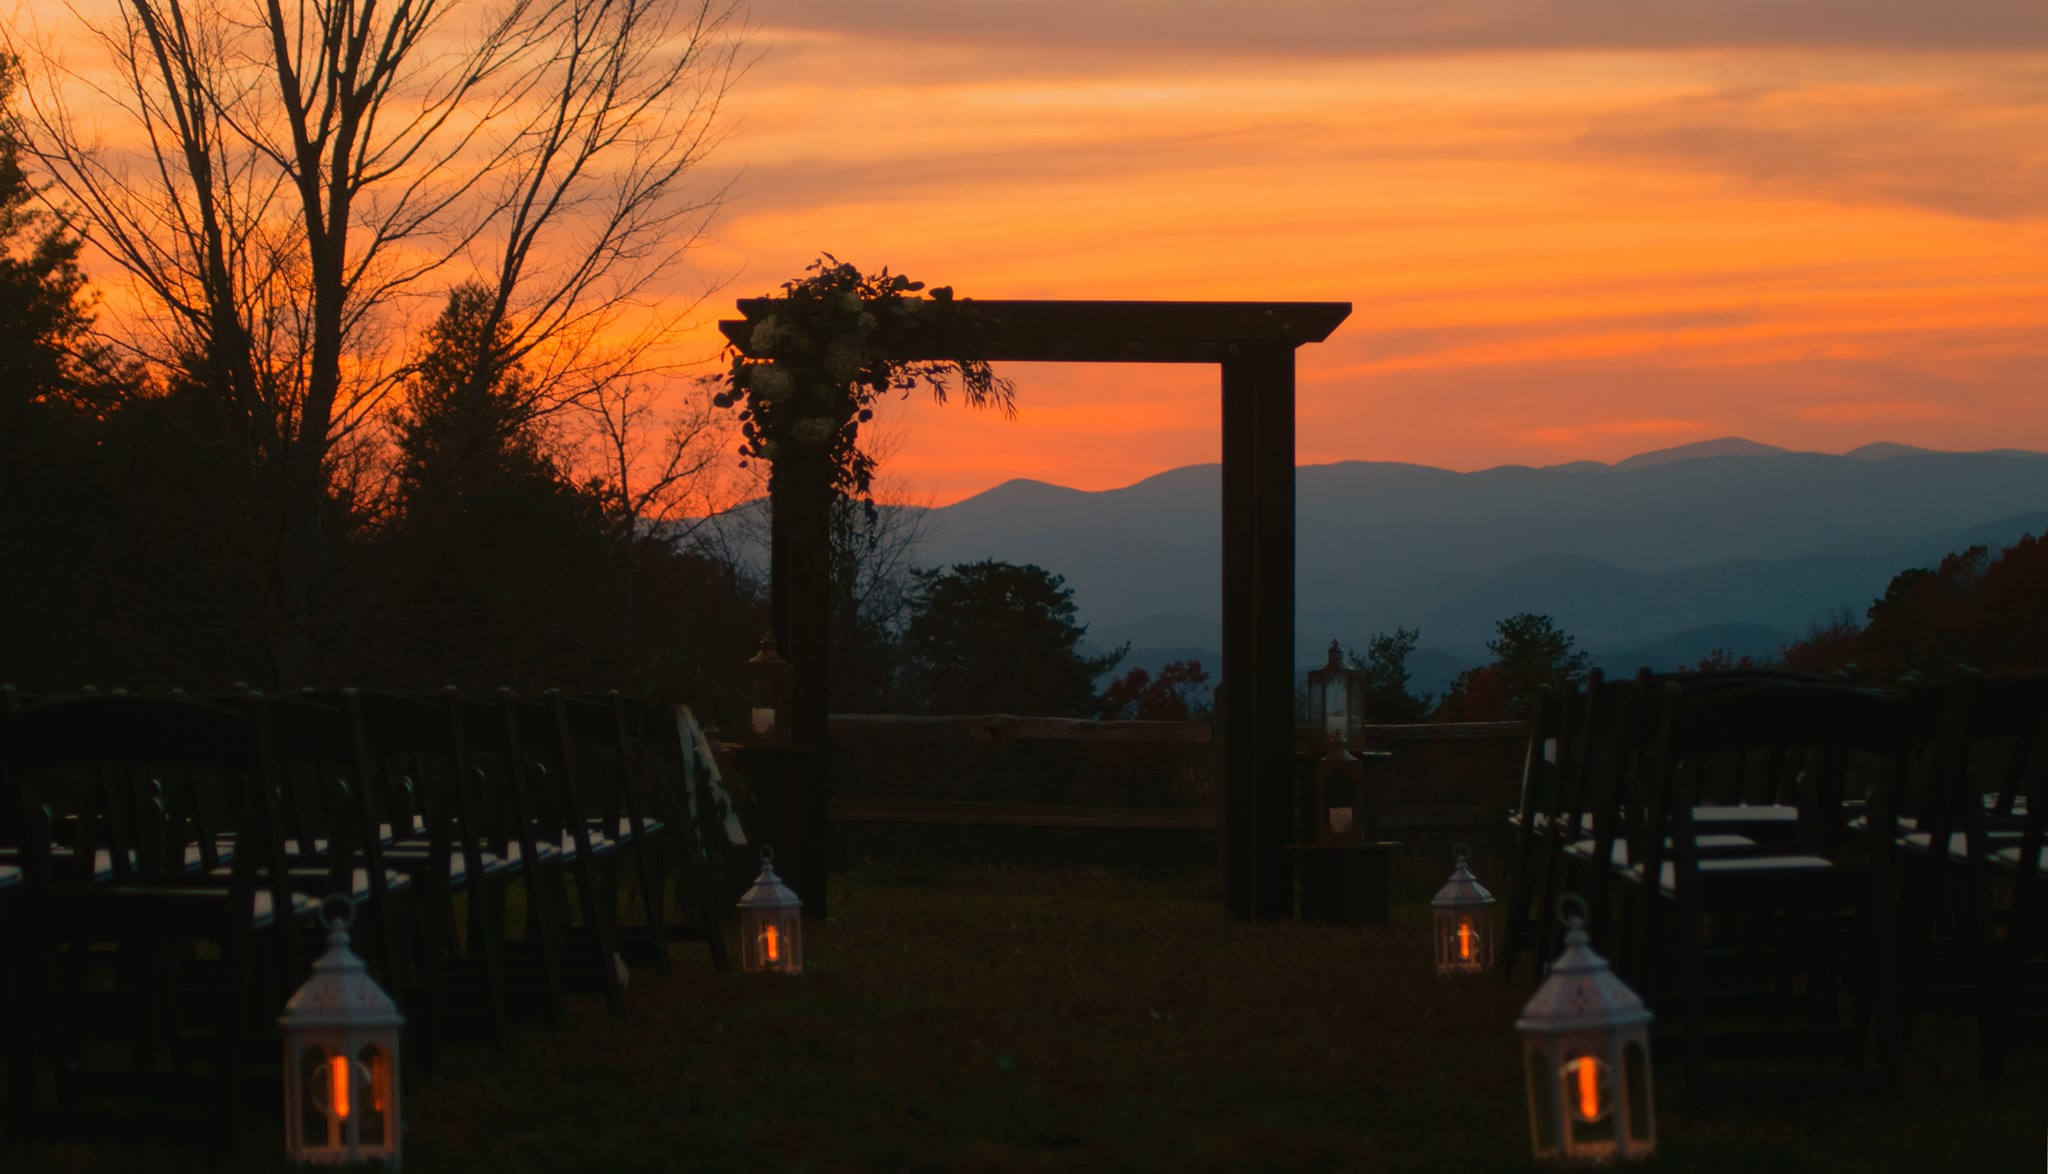
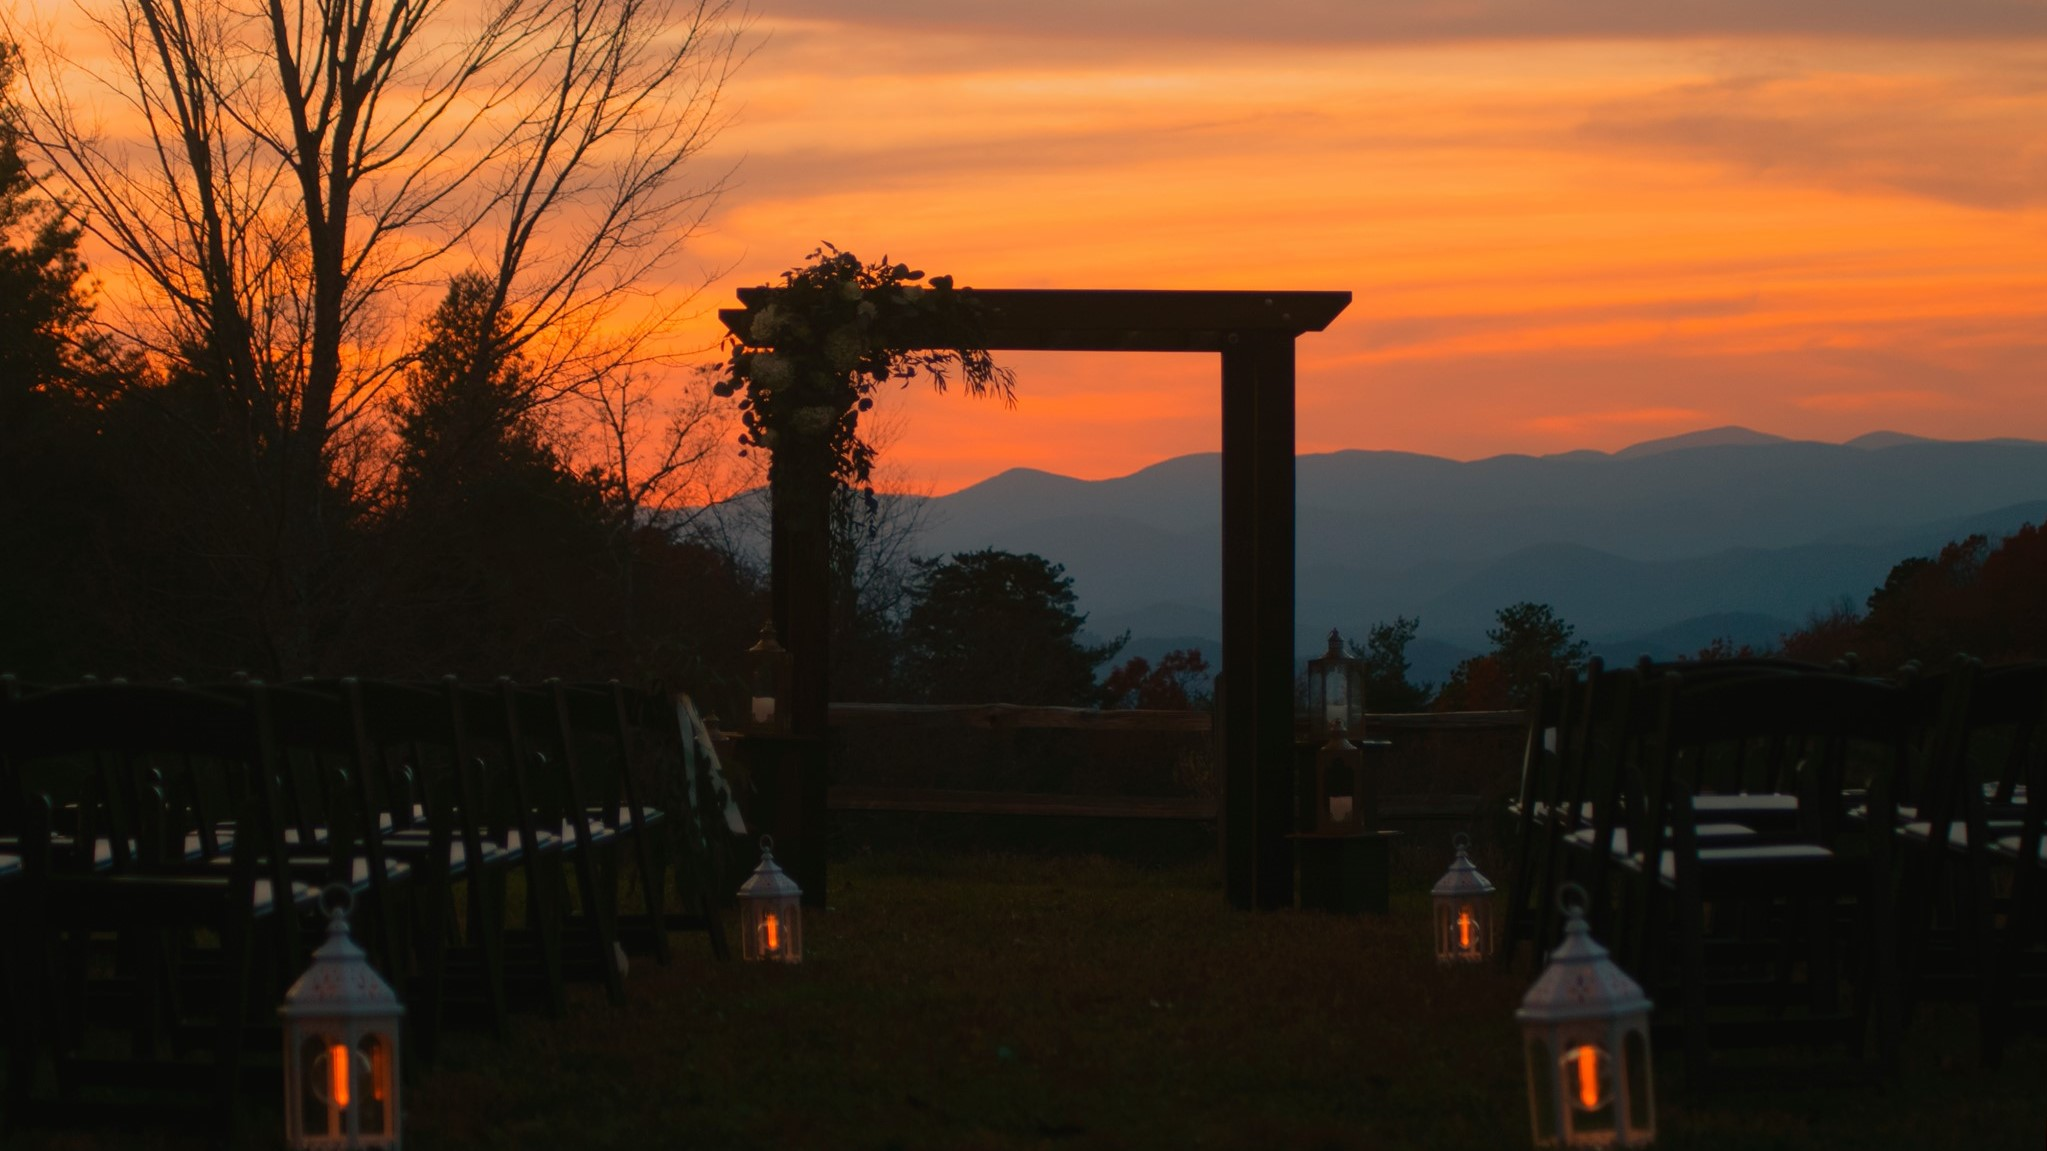
New look

diff --git a/index.html b/index.html
@@ -59,8 +59,8 @@
     <div class="cover-container d-flex w-100 h-100 mx-auto flex-column">
       <header class="mb-auto">
         <div class=nav-left">
-          <nav class="navbar nav-masthead navbar-expand-lg navbar-normal navbar-light navbar-fixed-top bg-light">
-            <a class="navbar-brand" href="#">Terra Incognita Vineyard</a>
+          <nav class="navbar nav-masthead navbar-expand-lg navbar-normal navbar-fixed-top bg-light">
+            <a class="navbar-brand alpha" href="#" style="color:darkslategrey;">Terra Incognita Vineyard</a>
             <a class="nav-link active" href="index.html">Home</a>
             <a class="nav-link" href="index.html#hours">Hours</a>
             <div class="nav-item dropdown">
@@ -82,19 +82,19 @@
         <div id="intro-pictures" class="carousel slide" data-ride="carousel">
           <div class="carousel-inner">
             <div class="carousel-item active">
-              <img class="d-block w-100" src="./images/aerial_sunset.jpg" alt="First slide">
+              <img class="d-block img-fluid" src="./images/aerial_sunset_2000.jpg" alt="First slide">
             </div>
             <div class="carousel-item">
-              <img class="d-block w-100" src="./images/aerial_west_view.jpg" alt="Second slide">
+              <img class="d-block img-fluid" src="./images/aerial_west_view_2000.jpg" alt="Second slide">
             </div>
             <div class="carousel-item">
-              <img class="d-block w-100" src="./images/spring.jpg" alt="Third slide">
+              <img class="d-block img-fluid" src="./images/spring_2000.jpg" alt="Third slide">
             </div>
             <div class="carousel-item">
-              <img class="d-block w-100" src="./images/table_decorations.jpg" alt="Fourth slide">
+              <img class="d-block img-fluid" src="./images/table_decorations_2000.jpg" alt="Fourth slide">
             </div>
             <div class="carousel-item">
-              <img class="d-block w-100" src="./images/sunny_trams.jpg" alt="Fith slide">
+              <img class="d-block img-fluid" src="./images/sunny_trams_2000.jpg" alt="Fith slide">
             </div>
           </div>
         </div>
@@ -110,7 +110,7 @@
             in our pavilion, or spend the night camping or in our loft apartment.
           </p>
         </div>
-        <div class="topic topic-even">
+        <div class="topic topic-even section-heading">
           <h2 id="hours">Hours</h2>
           <div class="container">
             <div class="row">
@@ -132,7 +132,7 @@
           </div>
           <p class="font-italic mt-1 mb-1">* Private tastings and special events are available by appointment</p>
         </div>
-        <div class="topic">
+        <div class="topic section-heading">
           <h2 id="contact">Contact Us</h2>
           <address>
             <strong>Terra Incognita Vineyard, LLC</strong><br />
@@ -146,7 +146,7 @@
             <a href="mailto:info@terraincognitavineyard.com">info@terraincognitavineyard.com</a>
           </address>
         </div>
-        <div class="topic topic-even">
+        <div class="topic topic-even section-heading">
           <h2 id="events">Events</h2>
           <p>We provide a 2,700 sq. ft. pavilion with an attached catering kitchen, fireplace, bar, and upstairs suite
             situated on our eastern hillside. Sunsets fall in the notch between the eastern and western hillsides,
@@ -157,7 +157,7 @@
             mountains.
           <p>Included are tables and chairs for our guests and we can accommodate any reasonable requests.</p>
         </div>
-        <div class="topic">
+        <div class="topic section-heading">
           <h2 id="directions">Directions</h2>
           <div class="container">
             <div class="row">
@@ -234,7 +234,7 @@
             </div>
           </div>
         </div>
-        <div class="topic topic-even">
+        <div class="topic topic-even section-heading">
           <h2 id="trails">Trails</h2>
           <p>Get out and get some exercise! We have a few trails that make for easy walking or spend some time walking
             through the vineyard. We have two basic loops that are fit for general use, the Eastern Creek Loop and

diff --git a/events.html b/events.html
@@ -59,33 +59,24 @@
     <div class="cover-container d-flex w-100 h-100 mx-auto flex-column">
       <header class="masthead mb-auto">
         <div class="inner">
-          <div class="navbar-left">
-            <nav class="navbar navbar-expand-lg navbar-normal navbar-light navbar-fixed-top bg-light">
-              <a class="navbar-brand" href="index.html">Terra Incognita Vineyard</a>
-              <ul class="navbar-nav mr-auto">
-                <li class="nav-item active">
-                  <a class="nav-link" href="index.html">Home</a>
-                </li>
-                <li class="nav-item">
-                  <a class="nav-link" href="index.html#hours">Hours</a>
-                </li>
-                <li class="nav-item">
-                  <a class="nav-link" href="index.html#contact">Contact</a>
-                </li>
-                <li class="nav-item dropdown">
-                  <a class="nav-link dropdown-toggle" href="#" id="navbarDropdown" role="button" data-bs-toggle="dropdown" aria-expanded="false">Events</a>
-                  <ul class="dropdown-menu" aria-labelledby="navbarDropdown">
-                    <li><a class="dropdown-item" href="events.html">Book your event</a></li>
-                    <li><a class="dropdown-item" href="events.html">Weddings</a></li>
-                    <!--<li><a class="dropdown-item" href="tiv_events.html">Calendar of TIV events</a></li> -->
-                  </ul>
-                </li>
-                <li class="nav-item">
-                  <a class="nav-link" href="index.html#directions">Directions</a>
-                </li>
-              </ul>
-              <a href="https://www.facebook.com/TerraIncognitaVineyard" target="_blank"> <i class="bi bi-facebook"></i></a>
-            </nav>
+          <nav class="navbar nav-masthead navbar-expand-lg navbar-normal navbar-fixed-top bg-light">
+            <a class="navbar-brand alpha" href="#" style="color:darkslategrey;">Terra Incognita Vineyard</a>
+            <a class="nav-link" href="index.html">Home</a>
+            <a class="nav-link" href="index.html#hours">Hours</a>
+            <div class="nav-item dropdown">
+              <a class="nav-link dropdown-toggle active" href="#" id="navbarDropdown" role="button" data-bs-toggle="dropdown" aria-expanded="false">Events</a>
+              <div class="dropdown-menu" aria-labelledby="navbarDropdown">
+                <a class="dropdown-item" href="events_public.html">Public Events</a>
+                <a class="dropdown-item" href="events_private.html">Book your private event</a>
+                <a class="dropdown-item" href="events_private.html">Weddings</a>
+              </div>
+            </div>
+            <a class="nav-link" href="index.html#directions">Directions</a>
+            <a class="nav-link" href="index.html#contact">Contact</a>
+            <div class="nav-right ml-auto">
+              <a href="https://www.facebook.com/TerraIncognitaVineyard" target="_blank"> <i class="bi bi-facebook icon-blue"></i></a>
+            </div>
+          </nav>
           </div>
           <div class="navbar-right">
           </div>

diff --git a/events_public.html b/events_public.html
@@ -58,24 +58,24 @@
   <div class="wrapper page-holder bg-cover">
     <div class="cover-container d-flex w-100 h-100 mx-auto flex-column">
       <header class="mb-auto">
-        <div class=nav-left">
-          <nav class="navbar nav-masthead navbar-expand-lg navbar-normal navbar-light navbar-fixed-top bg-light">
-            <a class="navbar-brand" href="#">Terra Incognita Vineyard</a>
-            <a class="nav-link active" href="index.html">Home</a>
-            <a class="nav-link" href="index.html#hours">Hours</a>
-            <div class="nav-item dropdown">
-              <a class="nav-link dropdown-toggle" href="#" id="navbarDropdown" role="button" data-bs-toggle="dropdown" aria-expanded="false">Events</a>
-              <div class="dropdown-menu" aria-labelledby="navbarDropdown">
-                <a class="dropdown-item" href="events_public.html">Public Events</a>
-                <a class="dropdown-item" href="events_private.html">Book your private event</a>
-                <a class="dropdown-item" href="events_private.html">Weddings</a>
-              </div>
+        <nav class="navbar nav-masthead navbar-expand-lg navbar-normal navbar-fixed-top bg-light">
+          <a class="navbar-brand alpha" href="#" style="color:darkslategrey;">Terra Incognita Vineyard</a>
+          <a class="nav-link" href="index.html">Home</a>
+          <a class="nav-link" href="index.html#hours">Hours</a>
+          <div class="nav-item dropdown">
+            <a class="nav-link dropdown-toggle active" href="#" id="navbarDropdown" role="button" data-bs-toggle="dropdown" aria-expanded="false">Events</a>
+            <div class="dropdown-menu" aria-labelledby="navbarDropdown">
+              <a class="dropdown-item" href="events_public.html">Public Events</a>
+              <a class="dropdown-item" href="events_private.html">Book your private event</a>
+              <a class="dropdown-item" href="events_private.html">Weddings</a>
             </div>
-            <a class="nav-link" href="index.html#directions">Directions</a>
-            <a class="nav-link" href="index.html#contact">Contact</a>
-            <div class="nav-right ml-auto">
-              <a href="https://www.facebook.com/TerraIncognitaVineyard" target="_blank"> <i class="bi bi-facebook icon-blue"></i></a>
-            </div>
+          </div>
+          <a class="nav-link" href="index.html#directions">Directions</a>
+          <a class="nav-link" href="index.html#contact">Contact</a>
+          <div class="nav-right ml-auto">
+            <a href="https://www.facebook.com/TerraIncognitaVineyard" target="_blank"> <i class="bi bi-facebook icon-blue"></i></a>
+          </div>
+        </nav>
           </nav>
       </header>
       <main class="inner cover bd-content" role="main">

diff --git a/css/cover.css b/css/cover.css
@@ -3,11 +3,12 @@
  */
 
 /* Links */
-a,
+a/*,
 a:focus,
 a:hover {
   color: #fff;
 }
+*/
 
 /* Custom default button */
 .btn-secondary,
@@ -53,6 +54,15 @@ p {
   max-width: 100%;
 }
 
+.section-heading {
+  margin-bottom: 58px;
+  padding-bottom: 54px;
+  /*border-bottom: .5px solid #d0d0d0;*/
+  border-top: .5px solid #d0d0d0;
+  color: #002550;
+  font-size: 26px;
+}
+
 .list-unordered {
   padding-top: 20px;
   text-align: left;
@@ -76,6 +86,11 @@ p {
   margin-bottom: 0;
 }
 
+
+.nav-left {
+  color: #002550;
+}
+
 .nav-masthead .nav-link {
   color: rgba(0, 0, 0, 0.5);
   background-color: transparent;
@@ -93,12 +108,18 @@ p {
 
 .nav-masthead .active {
   /* color: grey; */
-  border-bottom-color: #fff;
+  border-bottom-color: #002550;
 }
 
 /*
  * Cover
  */
+
+ .carousel-item {
+   .img-fluid.max-width: 100%;
+   height: auto;
+ }
+
 .cover {
 }
 .cover .btn-lg {
@@ -122,7 +143,9 @@ p {
  }
 
  .topic-even {
+  /*
    background-color: rgb(65, 95, 75);
+*/
  }
 
 .card {

diff --git a/README.md b/README.md
@@ -1,1 +1,7 @@
 # terra
+# Pictures
+- file type = .jpg
+- file size (max)  = 500 kb
+- resolution
+- slide show aspect ratio 16:9
+- Photos export settings 2000pix qidth 50% quality
